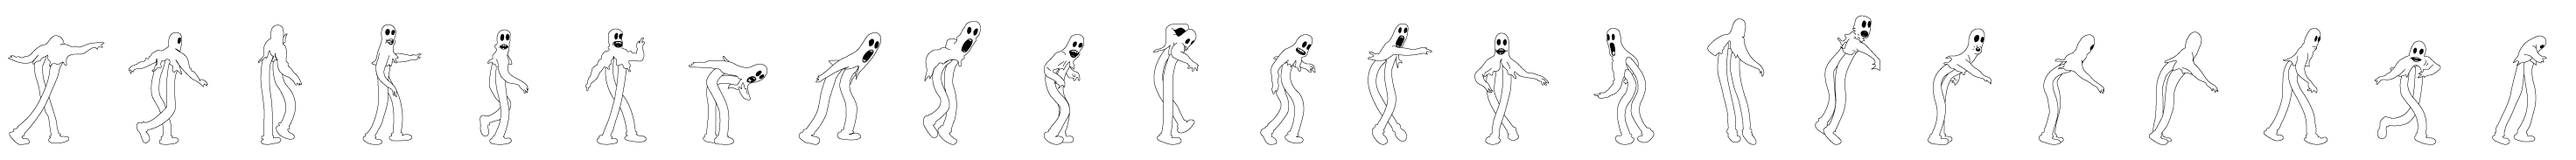
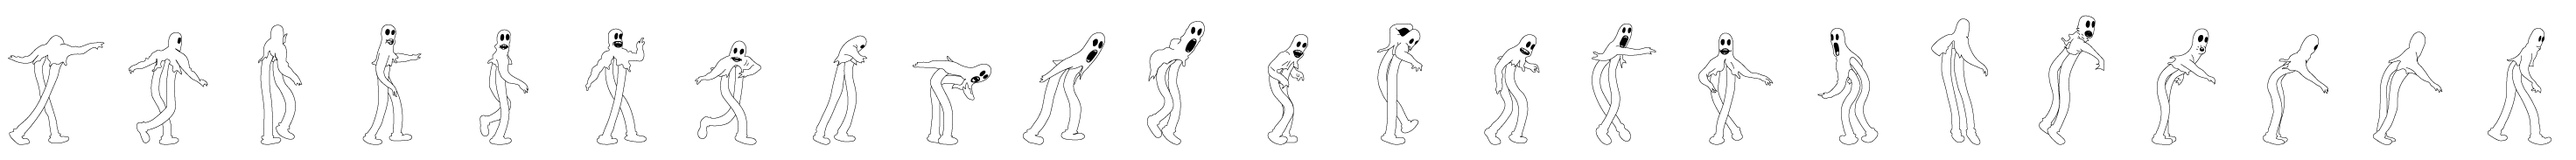
roading

diff --git a/js/loader.js b/js/loader.js
@@ -5,7 +5,7 @@
 // 見た目（踊る人の速さ・コマ数、バーの色や幅）は css/style.css の「ローディング画面」で変える
 
 (() => {
-  const MIN_SHOW = 2.0;  // 0→100％に最低かける秒数。読み込みが一瞬で終わっても、踊る人が見えるようにする
+  const MIN_SHOW = 3.5;  // 0→100％に最低かける秒数。読み込みが一瞬で終わっても、踊る人が見えるようにする
   const HOLD = 0.25;     // 100％になってから、消えはじめるまでの秒数
   const FADE = 0.5;      // 消えるのにかける秒数（style.css の .loader の transition と合わせる）
   const MAX_WAIT = 12;   // 何かが読み込めなくても、この秒数で必ず100％にして消す

diff --git a/css/style.css b/css/style.css
@@ -184,7 +184,7 @@ body { margin: 0; background: var(--bg); color: var(--fg); font-family: var(--pi
    画像を2倍で書き出しても、background-size で表示の大きさに合わせるので、そのまま差し替えられる */
 .loader-dancer {
   --frames: 23;          /* コマ数 */
-  --frame-time: 0.18s;   /* 1コマの表示時間。小さくすると速くなる */
+  --frame-time: 0.17s;   /* 1コマの表示時間。小さくすると速くなる */
   --fw: 128px;           /* 表示する1コマの幅 */
   --fh: 183px;           /* 表示する1コマの高さ */
   width: var(--fw); height: var(--fh);
